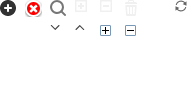
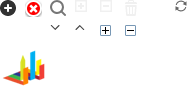
style:logo等信息修改

Changed region(s): [[0.0, 0.5263, 0.2462, 0.9053]]

diff --git a/Application/Admin/View/Public/login.html b/Application/Admin/View/Public/login.html
@@ -2,7 +2,7 @@
 <html lang="en">
     <head>
         <meta charset="UTF-8">
-        <title>欢迎您登录OneThink</title>
+        <title>欢迎您登录智博会</title>
         <link rel="stylesheet" type="text/css" href="__CSS__/login.css" media="all">
        	<link rel="stylesheet" type="text/css" href="__CSS__/{$Think.config.COLOR_STYLE}.css" media="all">
     </head>
@@ -13,7 +13,7 @@
             <div class="login-body">
                 <div class="login-main pr">
                     <form action="{:U('login')}" method="post" class="login-form">
-                        <h3 class="welcome"><i class="login-logo"></i>OneThink管理平台</h3>
+                        <h3 class="welcome"><i class="login-logo"></i>智博会管理平台</h3>
                         <div id="itemBox" class="item-box">
                             <div class="item">
                                 <i class="icon-login-user"></i>

diff --git a/wwwroot/Public/Admin/css/login.css b/wwwroot/Public/Admin/css/login.css
@@ -60,7 +60,7 @@ img {
 .login-logo {
     display: inline-block;
     margin-right: 12px;
-    width: 30px;
+    width: 55px;
     height: 44px;
     vertical-align: top;
     background: url(../images/login_logo.png) no-repeat 0 0 ;
